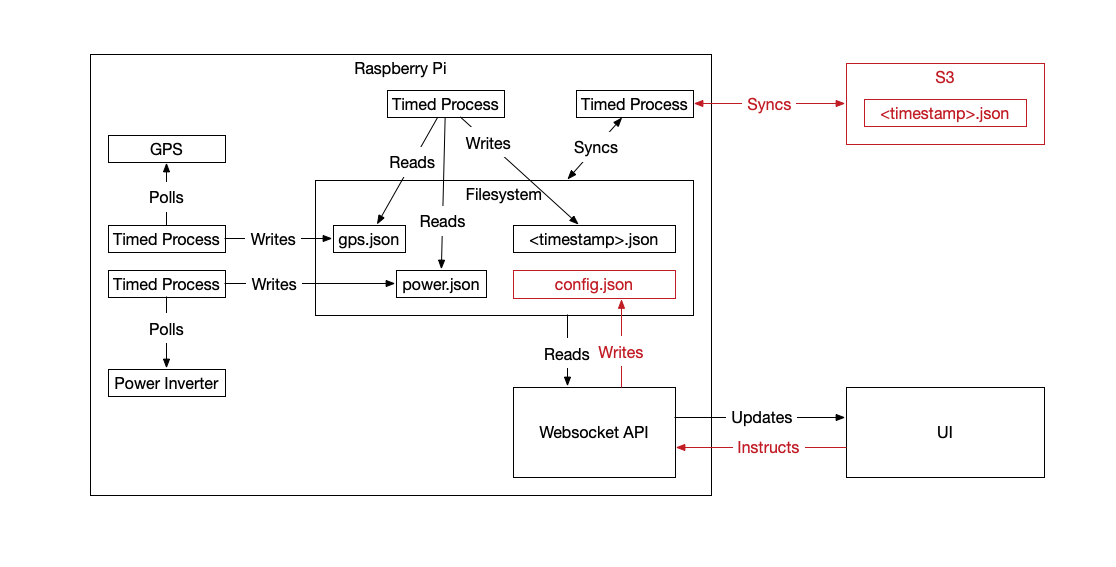
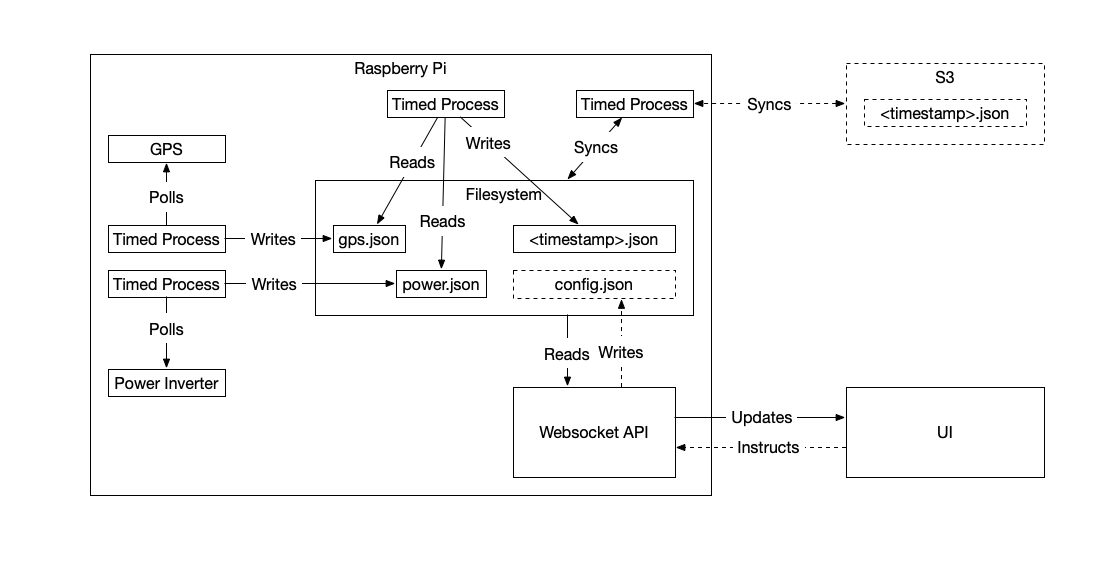
note features that are not yet implemented

diff --git a/README.md b/README.md
@@ -2,6 +2,8 @@
 
 ![Software component diagram](./doc/trailer-software.png)
 
+(dashed lines are not yet implemented)
+
 The core of my trailer monitoring system is a Raspberry Pi running a set of python and bash scripts. These scripts are scheduled with systemd.
 
 Breaking the problem up into a set of independent scripts provides several benefits:
